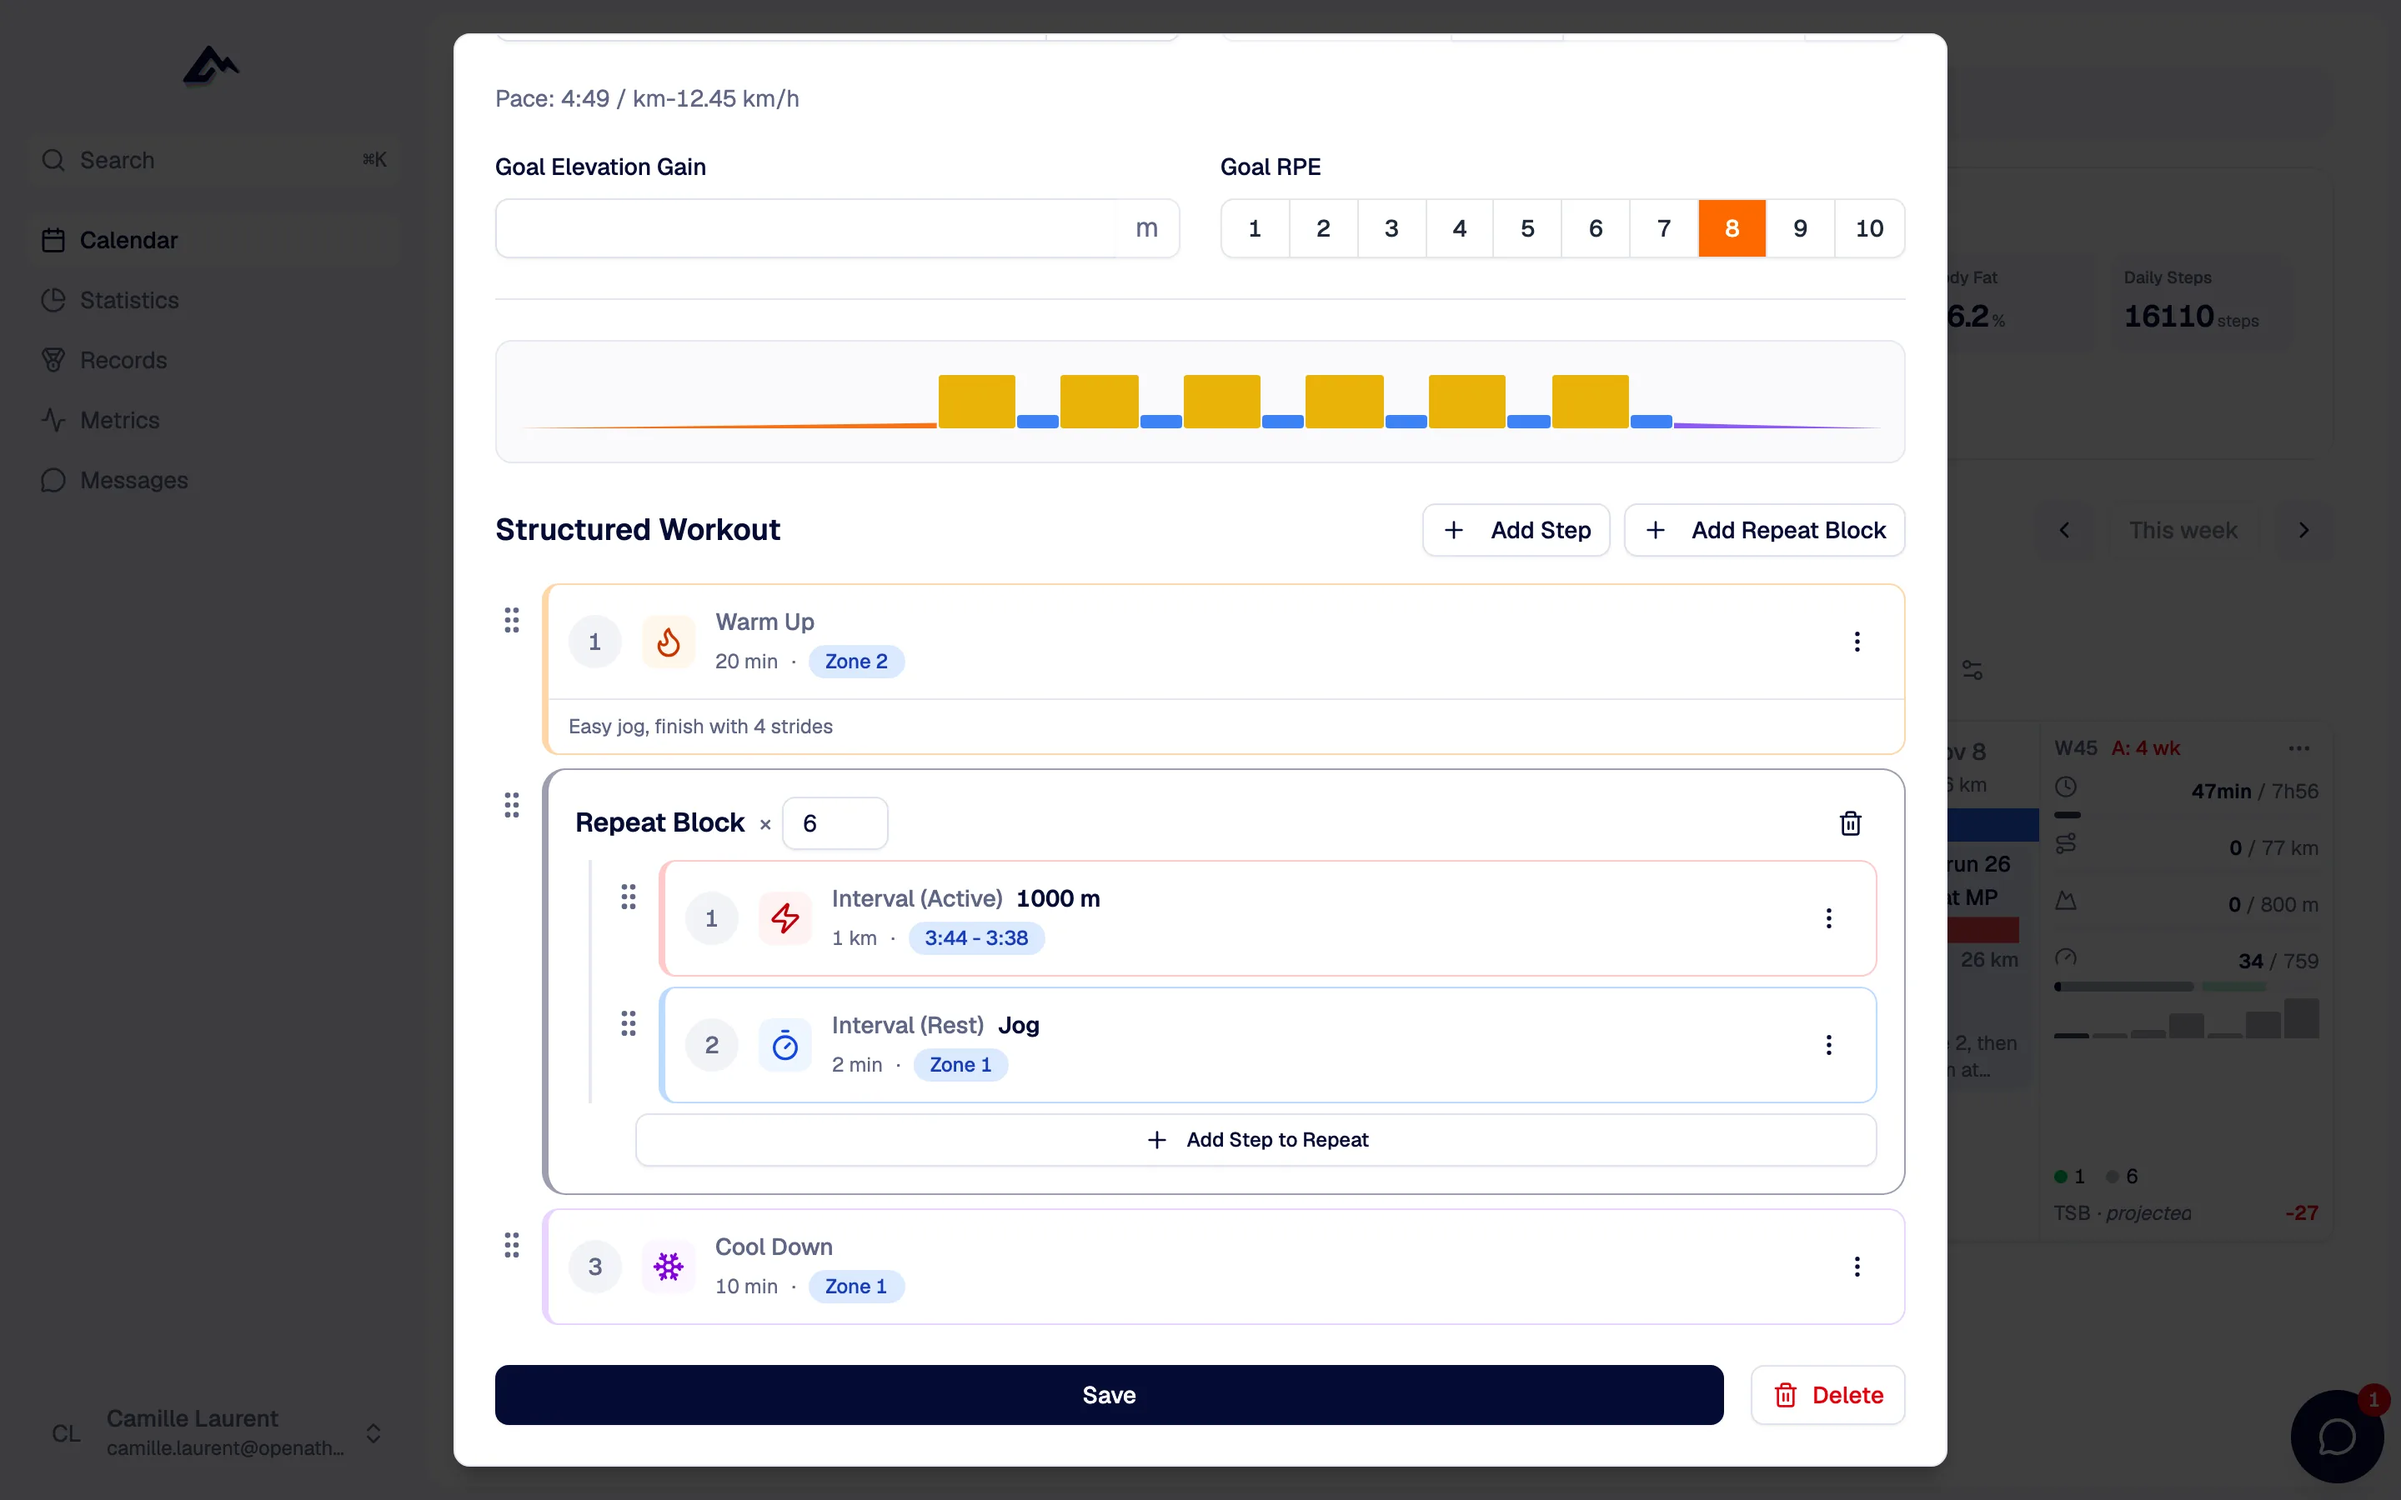
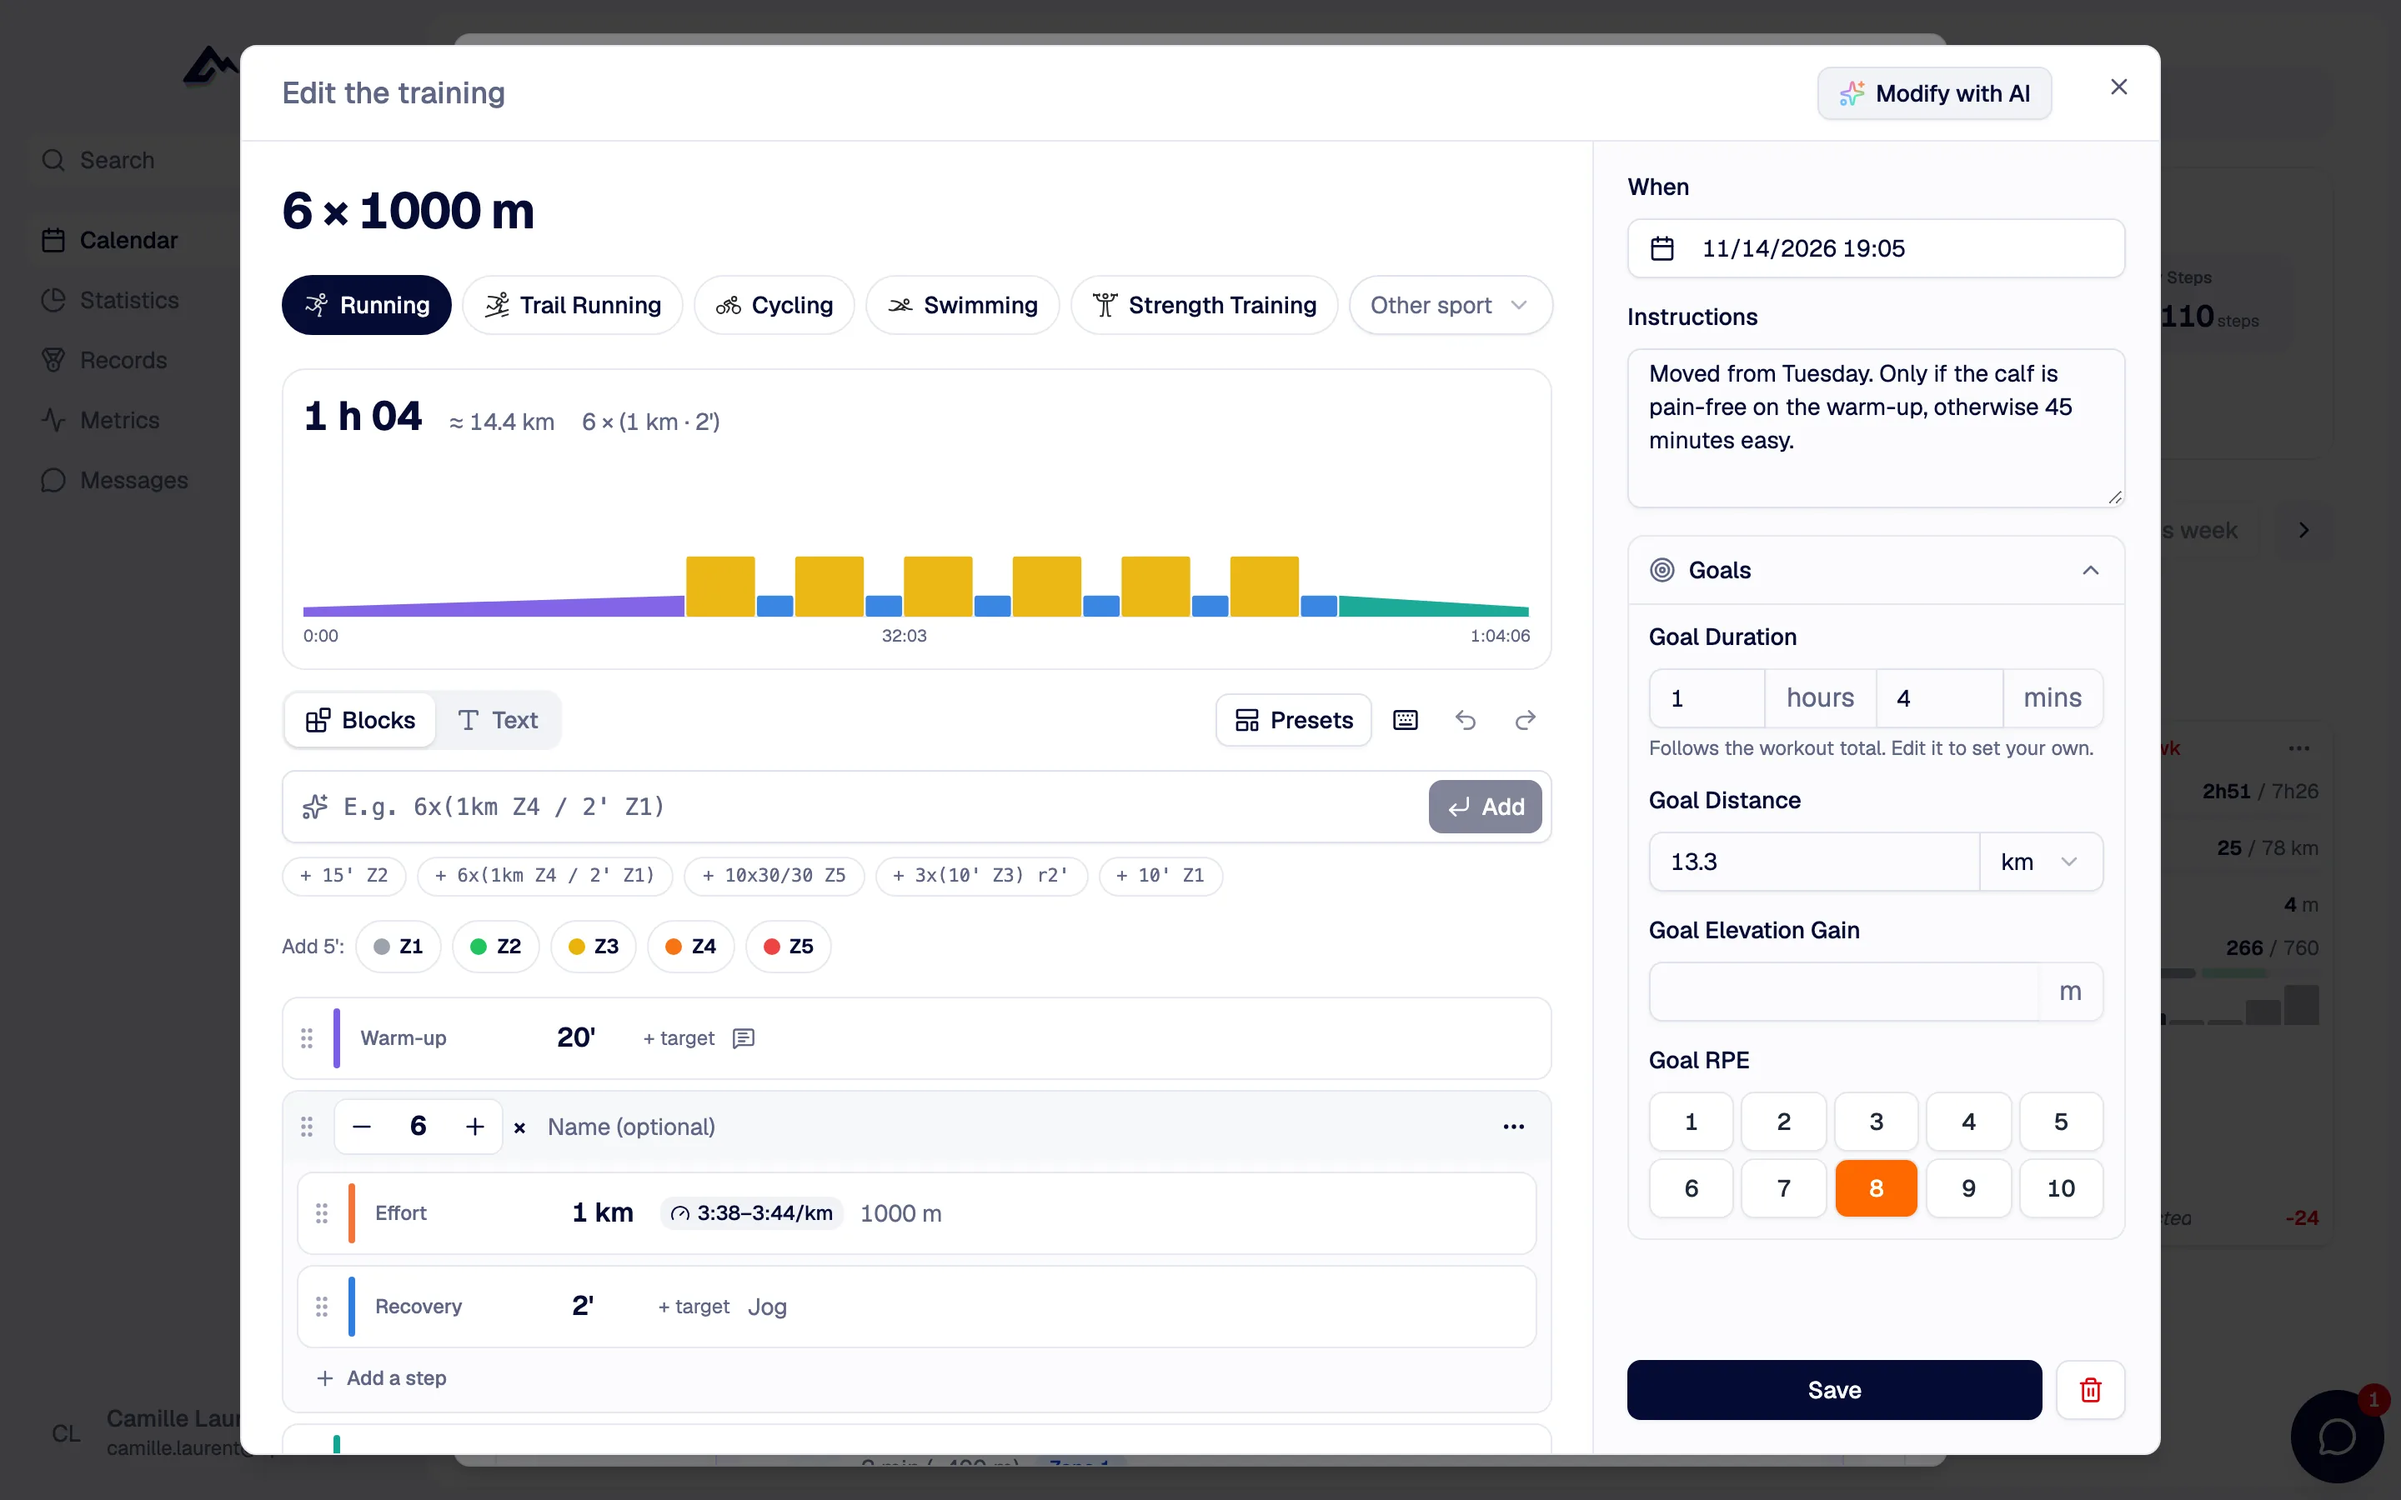
feat(website): present the new workout editor, strength and the player
The workout builder page gains three sections: typing a session line by
line, strength sessions from the exercise library, and the full-screen
player on a computer and a phone. The home page and the mobile page show
them too, with new screenshots, in all five languages.

diff --git a/apps/website/src/app/[locale]/features/workout-builder/page.tsx b/apps/website/src/app/[locale]/features/workout-builder/page.tsx
@@ -17,13 +17,14 @@ import {
 } from '@/components/site/layout-primitives';
 import { PROVIDERS } from '@/components/site/providers';
 import { Reveal, RevealGroup, RevealItem } from '@/components/site/reveal';
-import { Screenshot } from '@/components/site/visuals/screenshot';
+import { PhoneShot, Screenshot } from '@/components/site/visuals/screenshot';
 import { WorkoutBlocks } from '@/components/site/visuals/workout-blocks';
 import { initLocale } from '@/i18n/server';
 import { m } from '@/paraglide/messages';
 import { localePath } from '@/utils/locales';
 import {
   Bike,
+  CornerDownLeft,
   Dumbbell,
   FileText,
   Folder,
@@ -56,7 +57,7 @@ function provider(slug: string) {
 
 export default async function WorkoutBuilderPage({ params }: Props) {
   const locale = initLocale((await params).locale);
-  const faqs = faqEntries('features_wb_faq', 5);
+  const faqs = faqEntries('features_wb_faq', 6);
 
   const deviceRows = (
     ['garmin', 'suunto', 'coros', 'polar', 'strava'] as const
@@ -88,6 +89,15 @@ export default async function WorkoutBuilderPage({ params }: Props) {
       color: 'var(--mint)',
       items: [m.features_wb_lib_item_6()],
     },
+  ];
+
+  // As typed in the quick-add field, one line per step
+  const typed = ["15' Z2", "6x(1km Z4 / 2' Z1)", "10' Z1"];
+  const number = new Intl.NumberFormat(locale);
+  const catalog = [
+    { value: number.format(1305), label: m.features_wb_strength_count() },
+    { value: number.format(262), label: m.features_wb_strength_drawn() },
+    { value: '5', label: m.features_wb_strength_languages() },
   ];
 
   const sports = [
@@ -192,7 +202,113 @@ export default async function WorkoutBuilderPage({ params }: Props) {
         }
       />
 
+      <Section>
+        <Container>
+          <SplitRow
+            kicker={m.features_wb_type_kicker()}
+            title={m.features_wb_type_title()}
+            body={m.features_wb_type_body()}
+            points={[
+              m.features_wb_type_point_1(),
+              m.features_wb_type_point_2(),
+              m.features_wb_type_point_3(),
+            ]}
+            visual={
+              <div className="relative pb-16 sm:pb-10">
+                <Screenshot
+                  src={shots.workoutEditor}
+                  alt={m.features_wb_type_shot()}
+                  chrome={false}
+                  sizes="(min-width: 1024px) 680px, 100vw"
+                />
+                <div className="absolute right-3 -bottom-2 w-[min(88%,18rem)] rounded-2xl border border-border bg-white p-3 shadow-[0_24px_48px_-24px_rgb(5_12_52/0.4)] sm:-right-6 sm:-bottom-6">
+                  {typed.map((line) => (
+                    <p
+                      key={line}
+                      className="flex items-center justify-between gap-3 rounded-lg px-2.5 py-1.5 font-mono text-[0.82rem] text-ink odd:bg-paper"
+                    >
+                      {line}
+                      <CornerDownLeft className="size-3.5 shrink-0 text-muted-foreground" />
+                    </p>
+                  ))}
+                </div>
+              </div>
+            }
+          />
+        </Container>
+      </Section>
+
       <Section tone="paper">
+        <Container>
+          <SplitRow
+            flip
+            kicker={m.features_wb_strength_kicker()}
+            title={m.features_wb_strength_title()}
+            body={m.features_wb_strength_body()}
+            points={[
+              m.features_wb_strength_point_1(),
+              m.features_wb_strength_point_2(),
+              m.features_wb_strength_point_3(),
+            ]}
+            visual={
+              <div className="relative pb-16 sm:pb-10">
+                <Screenshot
+                  src={shots.strengthEditor}
+                  alt={m.features_wb_strength_shot()}
+                  chrome={false}
+                  sizes="(min-width: 1024px) 680px, 100vw"
+                />
+                <dl className="absolute -bottom-2 left-3 grid grid-cols-3 divide-x divide-border rounded-2xl border border-border bg-white py-3 shadow-[0_24px_48px_-24px_rgb(5_12_52/0.4)] sm:-bottom-6 sm:-left-6">
+                  {catalog.map(({ value, label }) => (
+                    <div key={label} className="px-4 sm:px-5">
+                      <dt className="sr-only">{label}</dt>
+                      <dd className="text-xl font-semibold tabular-nums text-ink sm:text-2xl">
+                        {value}
+                      </dd>
+                      <dd className="text-[0.75rem] text-muted-foreground">
+                        {label}
+                      </dd>
+                    </div>
+                  ))}
+                </dl>
+              </div>
+            }
+          />
+        </Container>
+      </Section>
+
+      <Section tone="ink">
+        <Container>
+          <SplitRow
+            tone="light"
+            kicker={m.features_wb_player_kicker()}
+            title={m.features_wb_player_title()}
+            body={m.features_wb_player_body()}
+            points={[
+              m.features_wb_player_point_1(),
+              m.features_wb_player_point_2(),
+              m.features_wb_player_point_3(),
+            ]}
+            visual={
+              <div className="relative pr-[18%] pb-10 sm:pr-[14%]">
+                <Screenshot
+                  src={shots.player}
+                  alt={m.features_wb_player_shot()}
+                  sizes="(min-width: 1024px) 600px, 85vw"
+                />
+                <PhoneShot
+                  src={shots.mobilePlayerRest}
+                  alt={m.features_wb_player_phone_shot()}
+                  sizes="(min-width: 1024px) 200px, 30vw"
+                  className="absolute right-0 bottom-0 w-[30%] max-w-[12rem]"
+                />
+              </div>
+            }
+          />
+        </Container>
+      </Section>
+
+      <Section>
         <Container>
           <div className="grid gap-12 lg:grid-cols-12 lg:gap-16">
             <Reveal className="lg:col-span-5">
@@ -257,7 +373,7 @@ export default async function WorkoutBuilderPage({ params }: Props) {
         </Container>
       </Section>
 
-      <Section>
+      <Section tone="paper">
         <Container>
           <div className="grid gap-12 lg:grid-cols-12 lg:gap-16">
             <div className="lg:col-span-5">
@@ -285,7 +401,7 @@ export default async function WorkoutBuilderPage({ params }: Props) {
         </Container>
       </Section>
 
-      <Section tone="paper">
+      <Section>
         <Container>
           <SplitRow
             flip

diff --git a/apps/website/src/assets/screenshots.ts b/apps/website/src/assets/screenshots.ts
@@ -14,6 +14,7 @@ import coachRoster from './screenshots/desktop-coach-athletes.webp';
 import coachDashboard from './screenshots/desktop-coach-dashboard.webp';
 import chat from './screenshots/desktop-messages.webp';
 import metrics from './screenshots/desktop-metrics.webp';
+import player from './screenshots/desktop-player-exercise.webp';
 import records from './screenshots/desktop-records.webp';
 import sessionDetail from './screenshots/desktop-session-detail.webp';
 import aiSettings from './screenshots/desktop-settings-ai-keys.webp';
@@ -22,11 +23,15 @@ import subscription from './screenshots/desktop-settings-subscription.webp';
 import zones from './screenshots/desktop-settings-zones.webp';
 import capacities from './screenshots/desktop-statistics-capacities-trail.webp';
 import trainingLoad from './screenshots/desktop-statistics-load.webp';
+import strengthEditor from './screenshots/desktop-strength-editor.webp';
 import workoutLibrary from './screenshots/desktop-template-library.webp';
 import workoutEditor from './screenshots/desktop-workout-editor.webp';
 import mobileActivity from './screenshots/mobile-activity.webp';
 import mobileCalendar from './screenshots/mobile-calendar.webp';
 import mobileChat from './screenshots/mobile-messages.webp';
+import mobilePlayer from './screenshots/mobile-player-exercise.webp';
+import mobilePlayerRest from './screenshots/mobile-player-rest.webp';
+import mobileStrength from './screenshots/mobile-strength-editor.webp';
 import mobileHome from './screenshots/mobile-today.webp';
 import mobileWorkout from './screenshots/mobile-workout-detail.webp';
 
@@ -37,6 +42,8 @@ export const shots = {
   workoutEditor,
   workoutLibrary,
   sessionDetail,
+  strengthEditor,
+  player,
   activity,
   activityMap,
   records,
@@ -57,6 +64,9 @@ export const shots = {
   mobileActivity,
   mobileWorkout,
   mobileChat,
+  mobilePlayer,
+  mobilePlayerRest,
+  mobileStrength,
 };
 
 export type ShotKey = keyof typeof shots;

diff --git a/apps/website/src/app/[locale]/mobile/page.tsx b/apps/website/src/app/[locale]/mobile/page.tsx
@@ -138,6 +138,8 @@ export default async function MobilePage({ params }: Props) {
     { shot: shots.mobileCalendar, alt: m.mobile_shot_alt_calendar(), n: 2 },
     { shot: shots.mobileActivity, alt: m.mobile_shot_alt_activity(), n: 3 },
     { shot: shots.mobileChat, alt: m.mobile_shot_alt_chat(), n: 4 },
+    { shot: shots.mobilePlayer, alt: m.mobile_shot_alt_player(), n: 5 },
+    { shot: shots.mobileStrength, alt: m.mobile_shot_alt_strength(), n: 6 },
   ];
 
   return (
@@ -308,7 +310,7 @@ export default async function MobilePage({ params }: Props) {
             title={m.mobile_today_title()}
             lead={m.mobile_today_lead()}
           />
-          <RevealGroup className="mt-14 grid grid-cols-2 gap-x-4 gap-y-10 sm:gap-x-6 sm:gap-y-12 lg:grid-cols-4">
+          <RevealGroup className="mt-14 grid grid-cols-2 gap-x-4 gap-y-10 sm:gap-x-6 sm:gap-y-12 lg:grid-cols-3">
             {features.map(({ shot, alt, n }) => (
               <RevealItem key={n}>
                 <div className="h-56 overflow-hidden rounded-[1.5rem] bg-paper px-4 pt-4 sm:h-80 sm:rounded-[2rem] sm:px-8 sm:pt-8">
